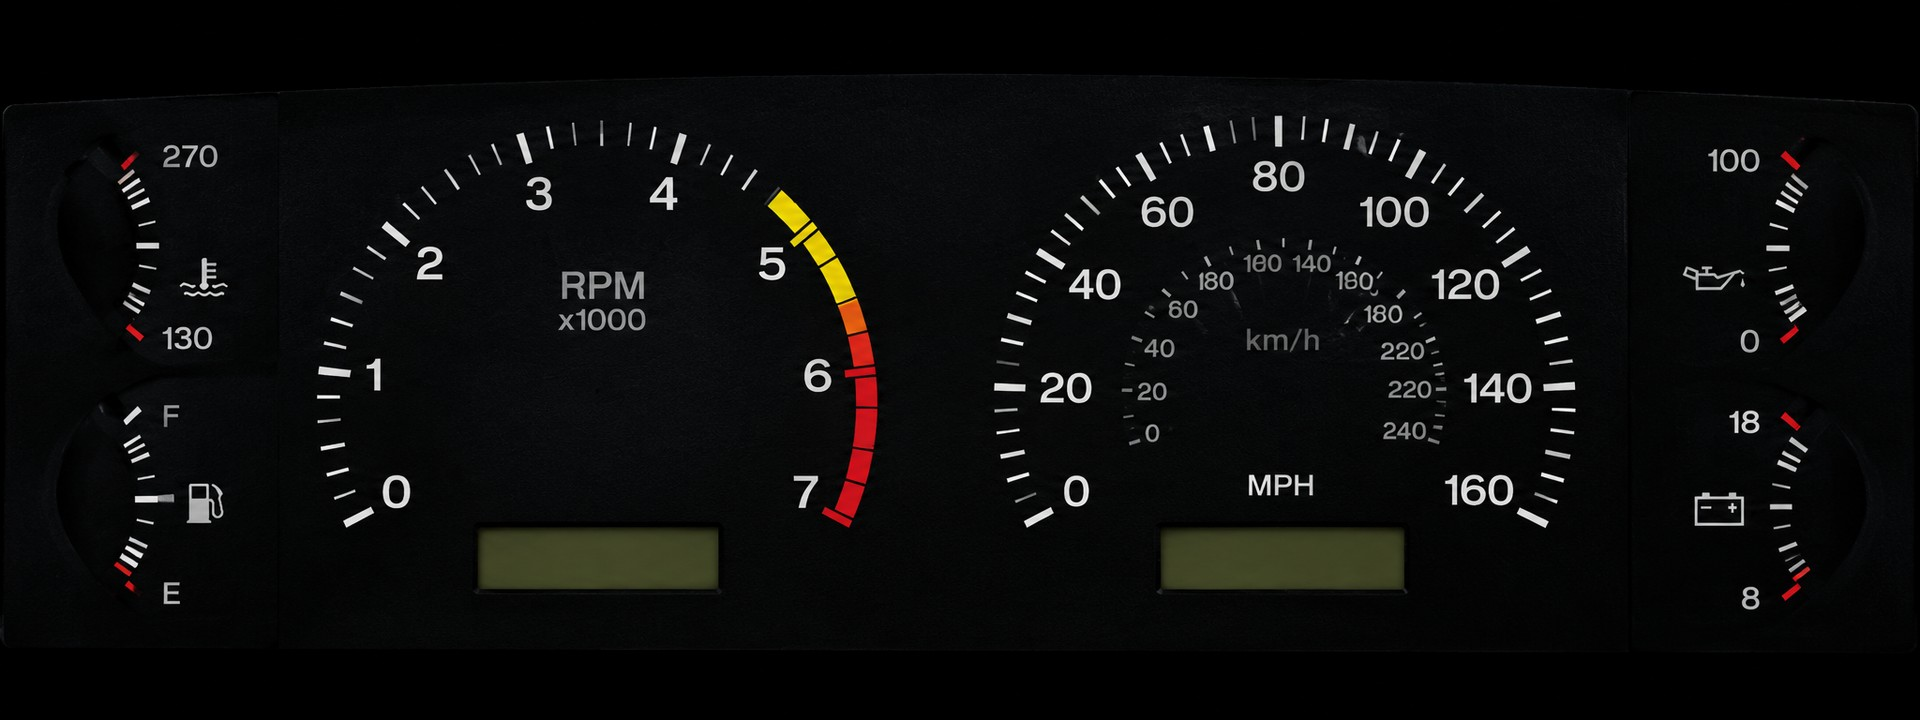
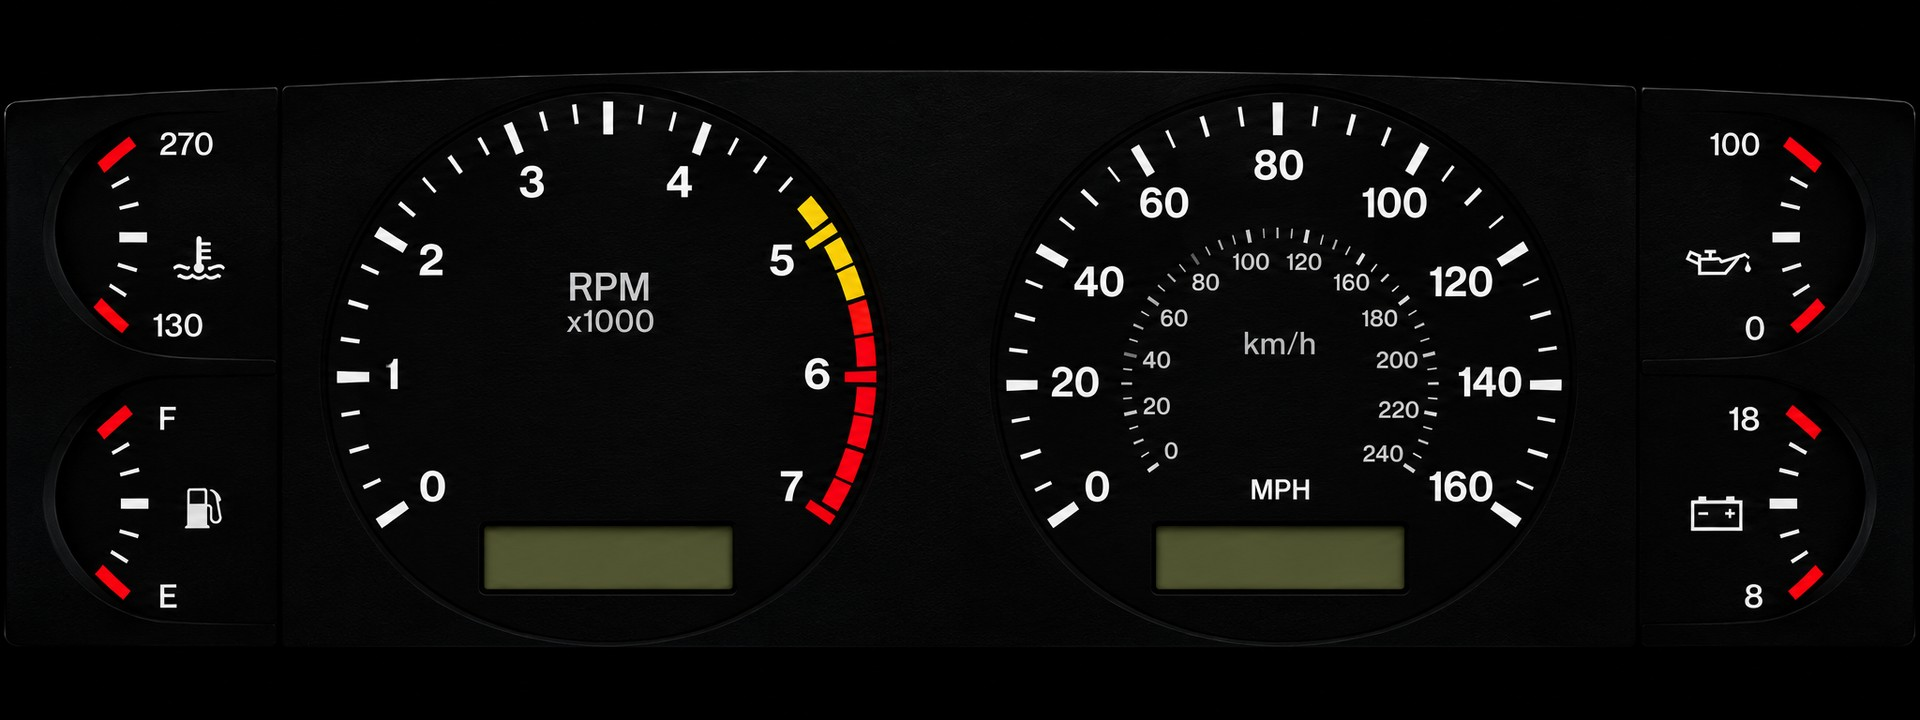
Fox LCD face: the owner's corrected picture, measured again
The tach, speedometer and LCD windows sit a little differently in the new picture; the
small dials' ticks now radiate cleanly from just off the screen's edge, so their needles
pivot there.

diff --git a/hardware/ui/skins.js b/hardware/ui/skins.js
@@ -71,28 +71,29 @@
       ],
       warning: [560, 596, 1360]
     },
-    // Fox-style cluster with two LCD windows. Coolant in °F; the small dials sit on curved
-    // faces and pivot from the outer edge of their recesses.
+    // Fox-style cluster with two LCD windows. Coolant in °F; the small dials' needles pivot
+    // just off the screen's edge, as their ticks show, and swing up and down their recesses.
     'skin-fox': {
       face: 'skins/fox.jpg', needle: {body: '#ff5a1f', edge: '#ffc29a', glow: '#ff4a00'},
       dials: [
-        {id: 'rpm', signal: 'engine.rpm', pivot: [599.3, 403.6], length: 262, tail: 40, width: 10, hub: 24,
-         marks: [[0, 345, 522.5], [1000, 319, 370], [2000, 382.5, 224], [3000, 518.5, 134], [4000, 684, 134], [5000, 820, 224], [6000, 878, 370], [7000, 850, 522.5]]},
-        {id: 'speed', signal: 'vehicle.speed_kph', convert: mph, pivot: [1283.6, 405.7], length: 270, tail: 40, width: 10, hub: 24,
-         marks: [[0, 1025, 525], [20, 995, 386], [40, 1037.5, 252.5], [60, 1139, 155], [80, 1278.5, 117.5], [100, 1422.5, 151],
-                 [120, 1527.5, 250], [140, 1574, 386], [160, 1547.5, 525]]},
-        {id: 'coolant', signal: 'engine.coolant_c', convert: fahrenheit, pivot: [14, 246], length: 142, width: 6, clip: [56, 138, 172, 352],
-         marks: [[130, 137, 333], [200, 159, 245], [270, 132, 160]]},
-        {id: 'fuel', read: READ.fuelPct, pivot: [14, 499], length: 142, width: 6, clip: [56, 396, 172, 606],
-         marks: [[0, 132.5, 582.5], [50, 157.5, 499], [100, 132.5, 415]]},
-        {id: 'oil', signal: 'engine.oil_pressure_psi', pivot: [1906, 247], length: 142, width: 6, clip: [1748, 138, 1864, 352],
-         marks: [[0, 1790, 332.5], [50, 1767.5, 247.5], [100, 1790, 160]]},
-        {id: 'volts', signal: 'vehicle.battery_v', pivot: [1906, 506], length: 142, width: 6, clip: [1748, 396, 1864, 612],
-         marks: [[8, 1790, 590], [13, 1780, 506.5], [18, 1790, 420]]}
+        {id: 'rpm', signal: 'engine.rpm', pivot: [606.3, 381.1], length: 248, tail: 40, width: 10, hub: 24,
+         marks: [[0, 377.5, 522.5], [1000, 337.5, 376.5], [2000, 376, 230], [3000, 506, 124], [3500, 607.5, 102.5], [4000, 706, 124],
+                 [5000, 837.5, 225], [6000, 875, 376], [7000, 832.5, 520]]},
+        {id: 'speed', signal: 'vehicle.speed_kph', convert: mph, pivot: [1282.1, 380.2], length: 254, tail: 40, width: 10, hub: 24,
+         marks: [[0, 1049, 522.5], [20, 1007.5, 384], [40, 1037.5, 247.5], [60, 1132.5, 145], [80, 1276.5, 102.5], [100, 1425, 144],
+                 [120, 1526, 245], [140, 1560, 384], [160, 1520, 522.5]]},
+        {id: 'coolant', signal: 'engine.coolant_c', convert: fahrenheit, pivot: [-11, 236.5], length: 150, width: 6, clip: [42, 124, 176, 350],
+         marks: [[130, 127.5, 330], [200, 147.5, 236.5], [270, 135, 142.5]]},
+        {id: 'fuel', read: READ.fuelPct, pivot: [-11, 503], length: 150, width: 6, clip: [42, 392, 176, 616],
+         marks: [[0, 128.5, 595], [50, 148.5, 503], [100, 131, 409]]},
+        {id: 'oil', signal: 'engine.oil_pressure_psi', pivot: [1931, 236.5], length: 150, width: 6, clip: [1744, 124, 1878, 350],
+         marks: [[0, 1792.5, 330], [50, 1772.5, 236.5], [100, 1785, 142.5]]},
+        {id: 'volts', signal: 'vehicle.battery_v', pivot: [1931, 503], length: 150, width: 6, clip: [1744, 392, 1878, 616],
+         marks: [[8, 1792.5, 595], [13, 1771, 503], [18, 1787.5, 409]]}
       ],
       readouts: [
-        {id: 'boost', box: [479, 525, 719, 589], style: 'lcd', text: boostText},
-        {id: 'odometer', box: [1160, 525, 1402, 590], style: 'lcd', text: () => { const t = odometerText(); return t.includes('-') ? '------ MI' : `${t} MI`; }}
+        {id: 'boost', box: [485, 527, 732, 588], style: 'lcd', text: boostText},
+        {id: 'odometer', box: [1157, 527, 1404, 588], style: 'lcd', text: () => { const t = odometerText(); return t.includes('-') ? '------ MI' : `${t} MI`; }}
       ],
       warning: [560, 610, 1360]
     },

diff --git a/preview/skins.js b/preview/skins.js
@@ -71,28 +71,29 @@
       ],
       warning: [560, 596, 1360]
     },
-    // Fox-style cluster with two LCD windows. Coolant in °F; the small dials sit on curved
-    // faces and pivot from the outer edge of their recesses.
+    // Fox-style cluster with two LCD windows. Coolant in °F; the small dials' needles pivot
+    // just off the screen's edge, as their ticks show, and swing up and down their recesses.
     'skin-fox': {
       face: 'skins/fox.jpg', needle: {body: '#ff5a1f', edge: '#ffc29a', glow: '#ff4a00'},
       dials: [
-        {id: 'rpm', signal: 'engine.rpm', pivot: [599.3, 403.6], length: 262, tail: 40, width: 10, hub: 24,
-         marks: [[0, 345, 522.5], [1000, 319, 370], [2000, 382.5, 224], [3000, 518.5, 134], [4000, 684, 134], [5000, 820, 224], [6000, 878, 370], [7000, 850, 522.5]]},
-        {id: 'speed', signal: 'vehicle.speed_kph', convert: mph, pivot: [1283.6, 405.7], length: 270, tail: 40, width: 10, hub: 24,
-         marks: [[0, 1025, 525], [20, 995, 386], [40, 1037.5, 252.5], [60, 1139, 155], [80, 1278.5, 117.5], [100, 1422.5, 151],
-                 [120, 1527.5, 250], [140, 1574, 386], [160, 1547.5, 525]]},
-        {id: 'coolant', signal: 'engine.coolant_c', convert: fahrenheit, pivot: [14, 246], length: 142, width: 6, clip: [56, 138, 172, 352],
-         marks: [[130, 137, 333], [200, 159, 245], [270, 132, 160]]},
-        {id: 'fuel', read: READ.fuelPct, pivot: [14, 499], length: 142, width: 6, clip: [56, 396, 172, 606],
-         marks: [[0, 132.5, 582.5], [50, 157.5, 499], [100, 132.5, 415]]},
-        {id: 'oil', signal: 'engine.oil_pressure_psi', pivot: [1906, 247], length: 142, width: 6, clip: [1748, 138, 1864, 352],
-         marks: [[0, 1790, 332.5], [50, 1767.5, 247.5], [100, 1790, 160]]},
-        {id: 'volts', signal: 'vehicle.battery_v', pivot: [1906, 506], length: 142, width: 6, clip: [1748, 396, 1864, 612],
-         marks: [[8, 1790, 590], [13, 1780, 506.5], [18, 1790, 420]]}
+        {id: 'rpm', signal: 'engine.rpm', pivot: [606.3, 381.1], length: 248, tail: 40, width: 10, hub: 24,
+         marks: [[0, 377.5, 522.5], [1000, 337.5, 376.5], [2000, 376, 230], [3000, 506, 124], [3500, 607.5, 102.5], [4000, 706, 124],
+                 [5000, 837.5, 225], [6000, 875, 376], [7000, 832.5, 520]]},
+        {id: 'speed', signal: 'vehicle.speed_kph', convert: mph, pivot: [1282.1, 380.2], length: 254, tail: 40, width: 10, hub: 24,
+         marks: [[0, 1049, 522.5], [20, 1007.5, 384], [40, 1037.5, 247.5], [60, 1132.5, 145], [80, 1276.5, 102.5], [100, 1425, 144],
+                 [120, 1526, 245], [140, 1560, 384], [160, 1520, 522.5]]},
+        {id: 'coolant', signal: 'engine.coolant_c', convert: fahrenheit, pivot: [-11, 236.5], length: 150, width: 6, clip: [42, 124, 176, 350],
+         marks: [[130, 127.5, 330], [200, 147.5, 236.5], [270, 135, 142.5]]},
+        {id: 'fuel', read: READ.fuelPct, pivot: [-11, 503], length: 150, width: 6, clip: [42, 392, 176, 616],
+         marks: [[0, 128.5, 595], [50, 148.5, 503], [100, 131, 409]]},
+        {id: 'oil', signal: 'engine.oil_pressure_psi', pivot: [1931, 236.5], length: 150, width: 6, clip: [1744, 124, 1878, 350],
+         marks: [[0, 1792.5, 330], [50, 1772.5, 236.5], [100, 1785, 142.5]]},
+        {id: 'volts', signal: 'vehicle.battery_v', pivot: [1931, 503], length: 150, width: 6, clip: [1744, 392, 1878, 616],
+         marks: [[8, 1792.5, 595], [13, 1771, 503], [18, 1787.5, 409]]}
       ],
       readouts: [
-        {id: 'boost', box: [479, 525, 719, 589], style: 'lcd', text: boostText},
-        {id: 'odometer', box: [1160, 525, 1402, 590], style: 'lcd', text: () => { const t = odometerText(); return t.includes('-') ? '------ MI' : `${t} MI`; }}
+        {id: 'boost', box: [485, 527, 732, 588], style: 'lcd', text: boostText},
+        {id: 'odometer', box: [1157, 527, 1404, 588], style: 'lcd', text: () => { const t = odometerText(); return t.includes('-') ? '------ MI' : `${t} MI`; }}
       ],
       warning: [560, 610, 1360]
     },
